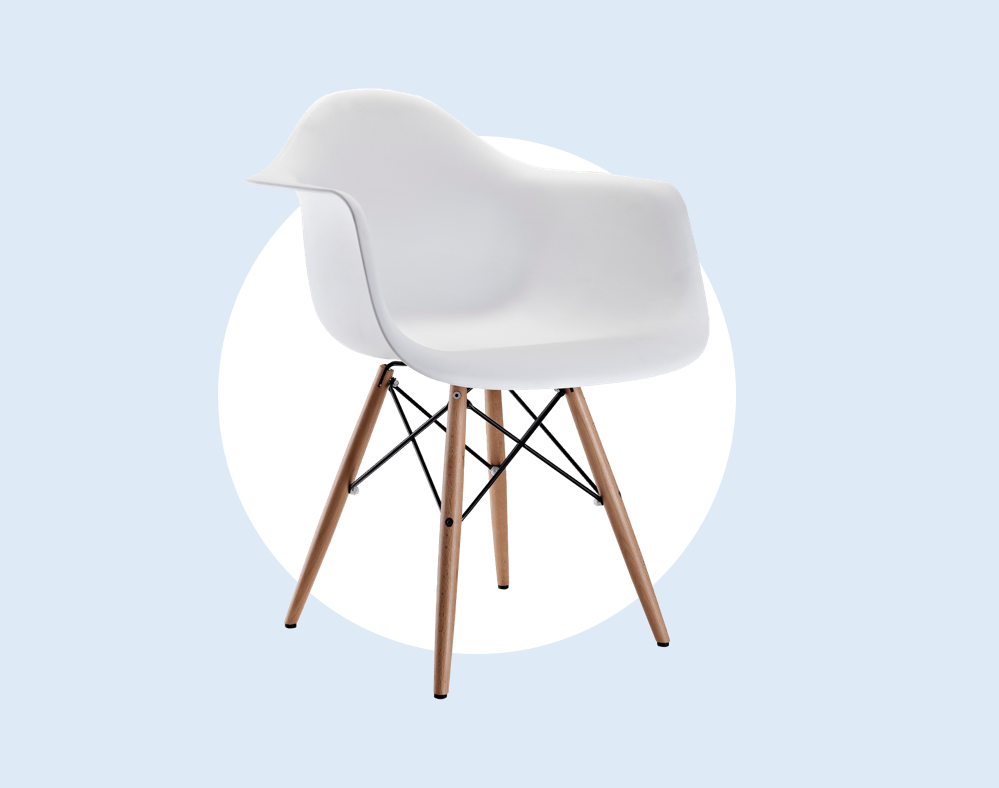
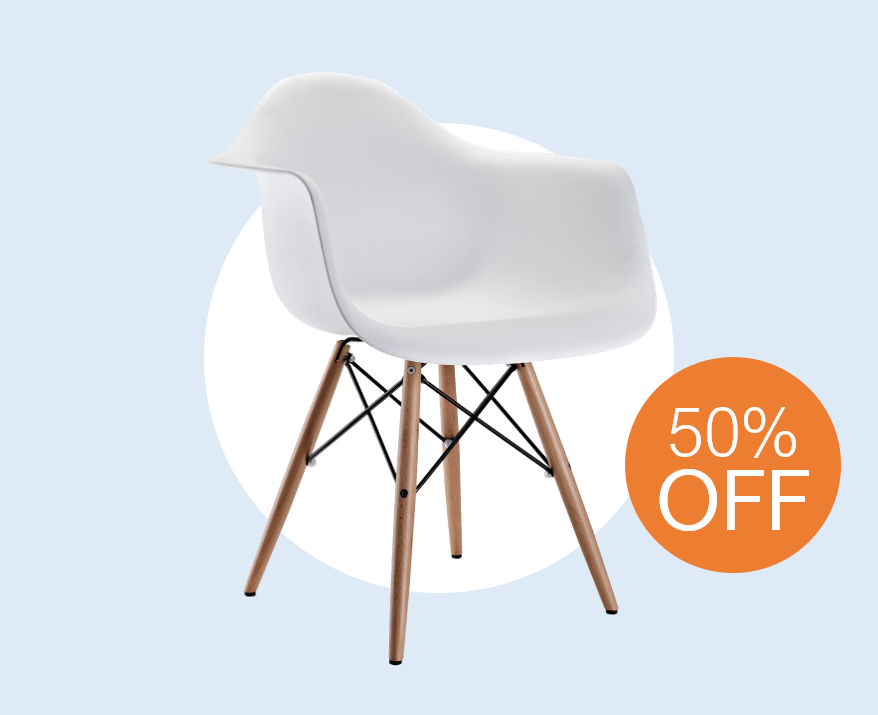
actualización files

diff --git a/views/productos.html b/views/productos.html
@@ -199,49 +199,50 @@
 
 <!--Ofertas -->
 
-<section id="specialPrice" class="colorFondoOferta">
-    <div class="container">
-        <div class="row justify-content-md-center align-items-center">
-                <div class="col-6">
-                  <a href="#"><img class="img-fluid" src="../imagenes/Promociones/promocion01.png" alt="Promoción"></a>
-                </div>
+<!-- Oferta con Timer -->
+<section class="colorFondoOfertaPro">
+  <div class="container">
+      <div class="row justify-content-md-center align-items-center">
+              <div class="col-6">
+                <a href="#"><img class="img-fluid" src="../imagenes/Promociones/promocion02.png" alt="Promociones"></a>
+              </div>
 
-                <div class="col-4 text-center max-width:100%">
-                  <div class="homemadeApple">Apurate!</div>
-                  <h3 class="robotoCondSize robotoCond">Este precio especial finaliza en:</h3>
-                  <div class="row justify-content-around oswald">
-                        <div class="col-2">
-                              <span class="number h2">02</span>
-                              <div class="col">
-                              <span class="text">Days</span>
-                              </div>
-                        </div>
-                        <div class="col-2">
-                          <span class="number h2">15</span>
+              <div class="col-6 text-center ">
+                <div class="homemadeApple">Apurate!</div>
+                <h3 class="robotoCondSize robotoCond">Este descuento especial finaliza en:</h3>
+                <div class="row justify-content-center oswald">
+                      <div class="col-auto">
+                            <span class="watchTime">02</span>
                             <div class="col">
-                              <span class="text">Hours</span>
+                            <span class="watchText">Días</span>
                             </div>
-                        </div>
-                        <div class="col-2">
-                          <span class="number h2">36</span>
+                      </div>
+                      <div class="col-auto">
+                        <span class="watchTime">15</span>
                           <div class="col">
-                            <span class="text">Mins</span>
+                            <span class="watchText">Horas</span>
                           </div>
+                      </div>
+                      <div class="col-auto">
+                        <span class="watchTime">36</span>
+                        <div class="col">
+                          <span class="watchText">Min</span>
                         </div>
-                        <div class="col-2">
-                          <span class="number h2">24</span>
-                          <div class="col">
-                            <span class="text">Secs</span>
-                          </div>
+                      </div>
+                      <div class="col-auto">
+                        <span class="watchTime">24</span>
+                        <div class="col">
+                          <span class="watchText">Seg</span>
                         </div>
-                  </div>  
-                </div> 
-                <div class col-4>
+                      </div>
+                </div>  
+              </div> 
+              <div class col-4>
 
-                </div>
-        </div>
+              </div>
+      </div>
 
-    </div>
+  </div>
 </section>
 
 <!-- Footer -->

diff --git a/views/home.html b/views/home.html
@@ -70,7 +70,7 @@
     </div>
     <div class="carousel-inner">
       <div class="carousel-item active">
-        <img src="../imagenes/Slider/index/Imagen1.png" class="d-block w-100" alt="..." > <!-- Dejo tres puntos porque queda mas prolijo en el caso que falle la carga de la foto-->
+        <img src="../imagenes/Slider/index/imagen1.png" class="d-block w-100" alt="..." > <!-- Dejo tres puntos porque queda mas prolijo en el caso que falle la carga de la foto-->
         <div class="carousel-caption d-none d-md-block">
             <div >
               <h2 class="colorH2 raleway">SIMPLE | TU PERSONALIDAD</h2>
@@ -81,7 +81,7 @@
         </div>
       </div>
       <div class="carousel-item">
-        <img src="../imagenes/Slider/index/Imagen2.png" class="d-block w-100" alt="...">
+        <img src="../imagenes/Slider/index/imagen2.png" class="d-block w-100" alt="...">
         <div class="carousel-caption d-none d-md-block text-end">
           <h2 class="colorH2Blanco raleway">ILUMINÁ CON TU PERSONALIDAD</h2>
           <button class="btn btn-dark btn-xl">DESCUBRILO</button>
@@ -90,7 +90,7 @@
         </div>
       </div>
       <div class="carousel-item">
-        <img src="../imagenes/Slider/index/Imagen3.png" class="d-block w-100" alt="...">
+        <img src="../imagenes/Slider/index/imagen3.png" class="d-block w-100" alt="...">
         <div class="carousel-caption d-none d-md-block">
           <h2 class="colorH2Blanco raleway">EXPRESAR TU PERSONALIDAD</h2>
           <button class="btn btn-dark btn-xl">DESCUBRILO</button>
@@ -99,7 +99,7 @@
         </div>
       </div>
       <div class="carousel-item">
-        <img src="../imagenes/Slider/index/Imagen2.png" class="d-block w-100" alt="...">
+        <img src="../imagenes/Slider/index/imagen4.jpg" class="d-block w-100" alt="...">
         <div class="carousel-caption d-none d-md-block text-end">
           <h2 class="colorH2Blanco raleway">ILUMINÁ CON TU PERSONALIDAD</h2>
           <button class="btn btn-dark btn-xl">DESCUBRILO</button>
@@ -214,7 +214,7 @@
 
                 <div class="col-6 text-center ">
                   <div class="homemadeApple">Apurate!</div>
-                  <h3 class="robotoCondSize robotoCond">Este precio especial finaliza en:</h3>
+                  <h3 class="robotoCondSize robotoCond">Este descuento especial finaliza en:</h3>
                   <div class="row justify-content-center oswald">
                         <div class="col-auto">
                               <span class="watchTime">02</span>

diff --git a/views/galleryTemporadaInviernoSillas.html b/views/galleryTemporadaInviernoSillas.html
@@ -11,12 +11,9 @@
   <link rel="preconnect" href="https://fonts.gstatic.com">
   <link href="https://fonts.googleapis.com/css2?family=Antonio:wght@700&family=Bebas+Neue&family=Dancing+Script&family=Great+Vibes&family=Hind:wght@300&display=swap" rel="stylesheet">  
   <link rel="stylesheet" href="../css/styleTemporadaInvierno.css">
-  <link rel="stylesheet" href="../css/estiloBem.css">
-
-<!--  <link rel="stylesheet" type="text/css" href="css/styleTemporadaInvierno.css">
-  <link rel="stylesheet" href="css/estiloBem.css">
+  <link rel="stylesheet" href="../css/estilos.css">
   <title>Temporada Otoño Invierno 2021</title>
--->
+
 </head>
 
 <body>
@@ -63,6 +60,15 @@
                </div>
                <div class="col">
                   <img src="../imagenes/Invierno_2021/sImg3.jpeg" class="gallery-item brilloImagen" alt="Galeria Imagen">
+               </div> 
+               <div class="col">
+                  <img src="../imagenes/Invierno_2021/sImg4.jpg" class="gallery-item brilloImagen" alt="Galeria Imagen">
+               </div>
+               <div class="col">
+                    <img src="../imagenes/Invierno_2021/sImg5.jpg" class="gallery-item brilloImagen" alt="Galeria Imagen">
+               </div>
+               <div class="col">
+                    <img src="../imagenes/Invierno_2021/sImg6.jpg" class="gallery-item brilloImagen" alt="Galeria Imagen">
                </div>        
             </div>
          </div>

diff --git a/views/galleryTemporadaInviernoLamparas.html b/views/galleryTemporadaInviernoLamparas.html
@@ -11,12 +11,9 @@
   <link rel="preconnect" href="https://fonts.gstatic.com">
   <link href="https://fonts.googleapis.com/css2?family=Antonio:wght@700&family=Bebas+Neue&family=Dancing+Script&family=Great+Vibes&family=Hind:wght@300&display=swap" rel="stylesheet">  
   <link rel="stylesheet" href="../css/styleTemporadaInvierno.css">
-  <link rel="stylesheet" href="../css/estiloBem.css">
-
-<!--  <link rel="stylesheet" type="text/css" href="css/styleTemporadaInvierno.css">
-  <link rel="stylesheet" href="css/estiloBem.css">
+  <link rel="stylesheet" href="../css/estilos.css">
   <title>Temporada Otoño Invierno 2021</title>
--->
+
 </head>
 
 <body>

diff --git a/views/galleryTemporadaInviernoDeco.html b/views/galleryTemporadaInviernoDeco.html
@@ -12,11 +12,8 @@
   <link href="https://fonts.googleapis.com/css2?family=Antonio:wght@700&family=Bebas+Neue&family=Dancing+Script&family=Great+Vibes&family=Hind:wght@300&display=swap" rel="stylesheet">  
   <link rel="stylesheet" href="../css/styleTemporadaInvierno.css">
   <link rel="stylesheet" href="../css/estiloBem.css">
-
-<!--  <link rel="stylesheet" type="text/css" href="css/styleTemporadaInvierno.css">
-  <link rel="stylesheet" href="css/estiloBem.css">
   <title>Temporada Otoño Invierno 2021</title>
--->
+
 </head>
 
 <body>

diff --git a/css/estilosGaleriaBoostrap.css b/css/estilosGaleriaBoostrap.css
@@ -24,6 +24,10 @@ a, a:hover, a:focus {
 .colorFondoOferta{
     background-color: #DEEBF7;
 }
+.colorFondoOfertaPro{
+  background-color: rgb(237 237 237);
+}
+
 
 .abs-center {
     display: flex;
